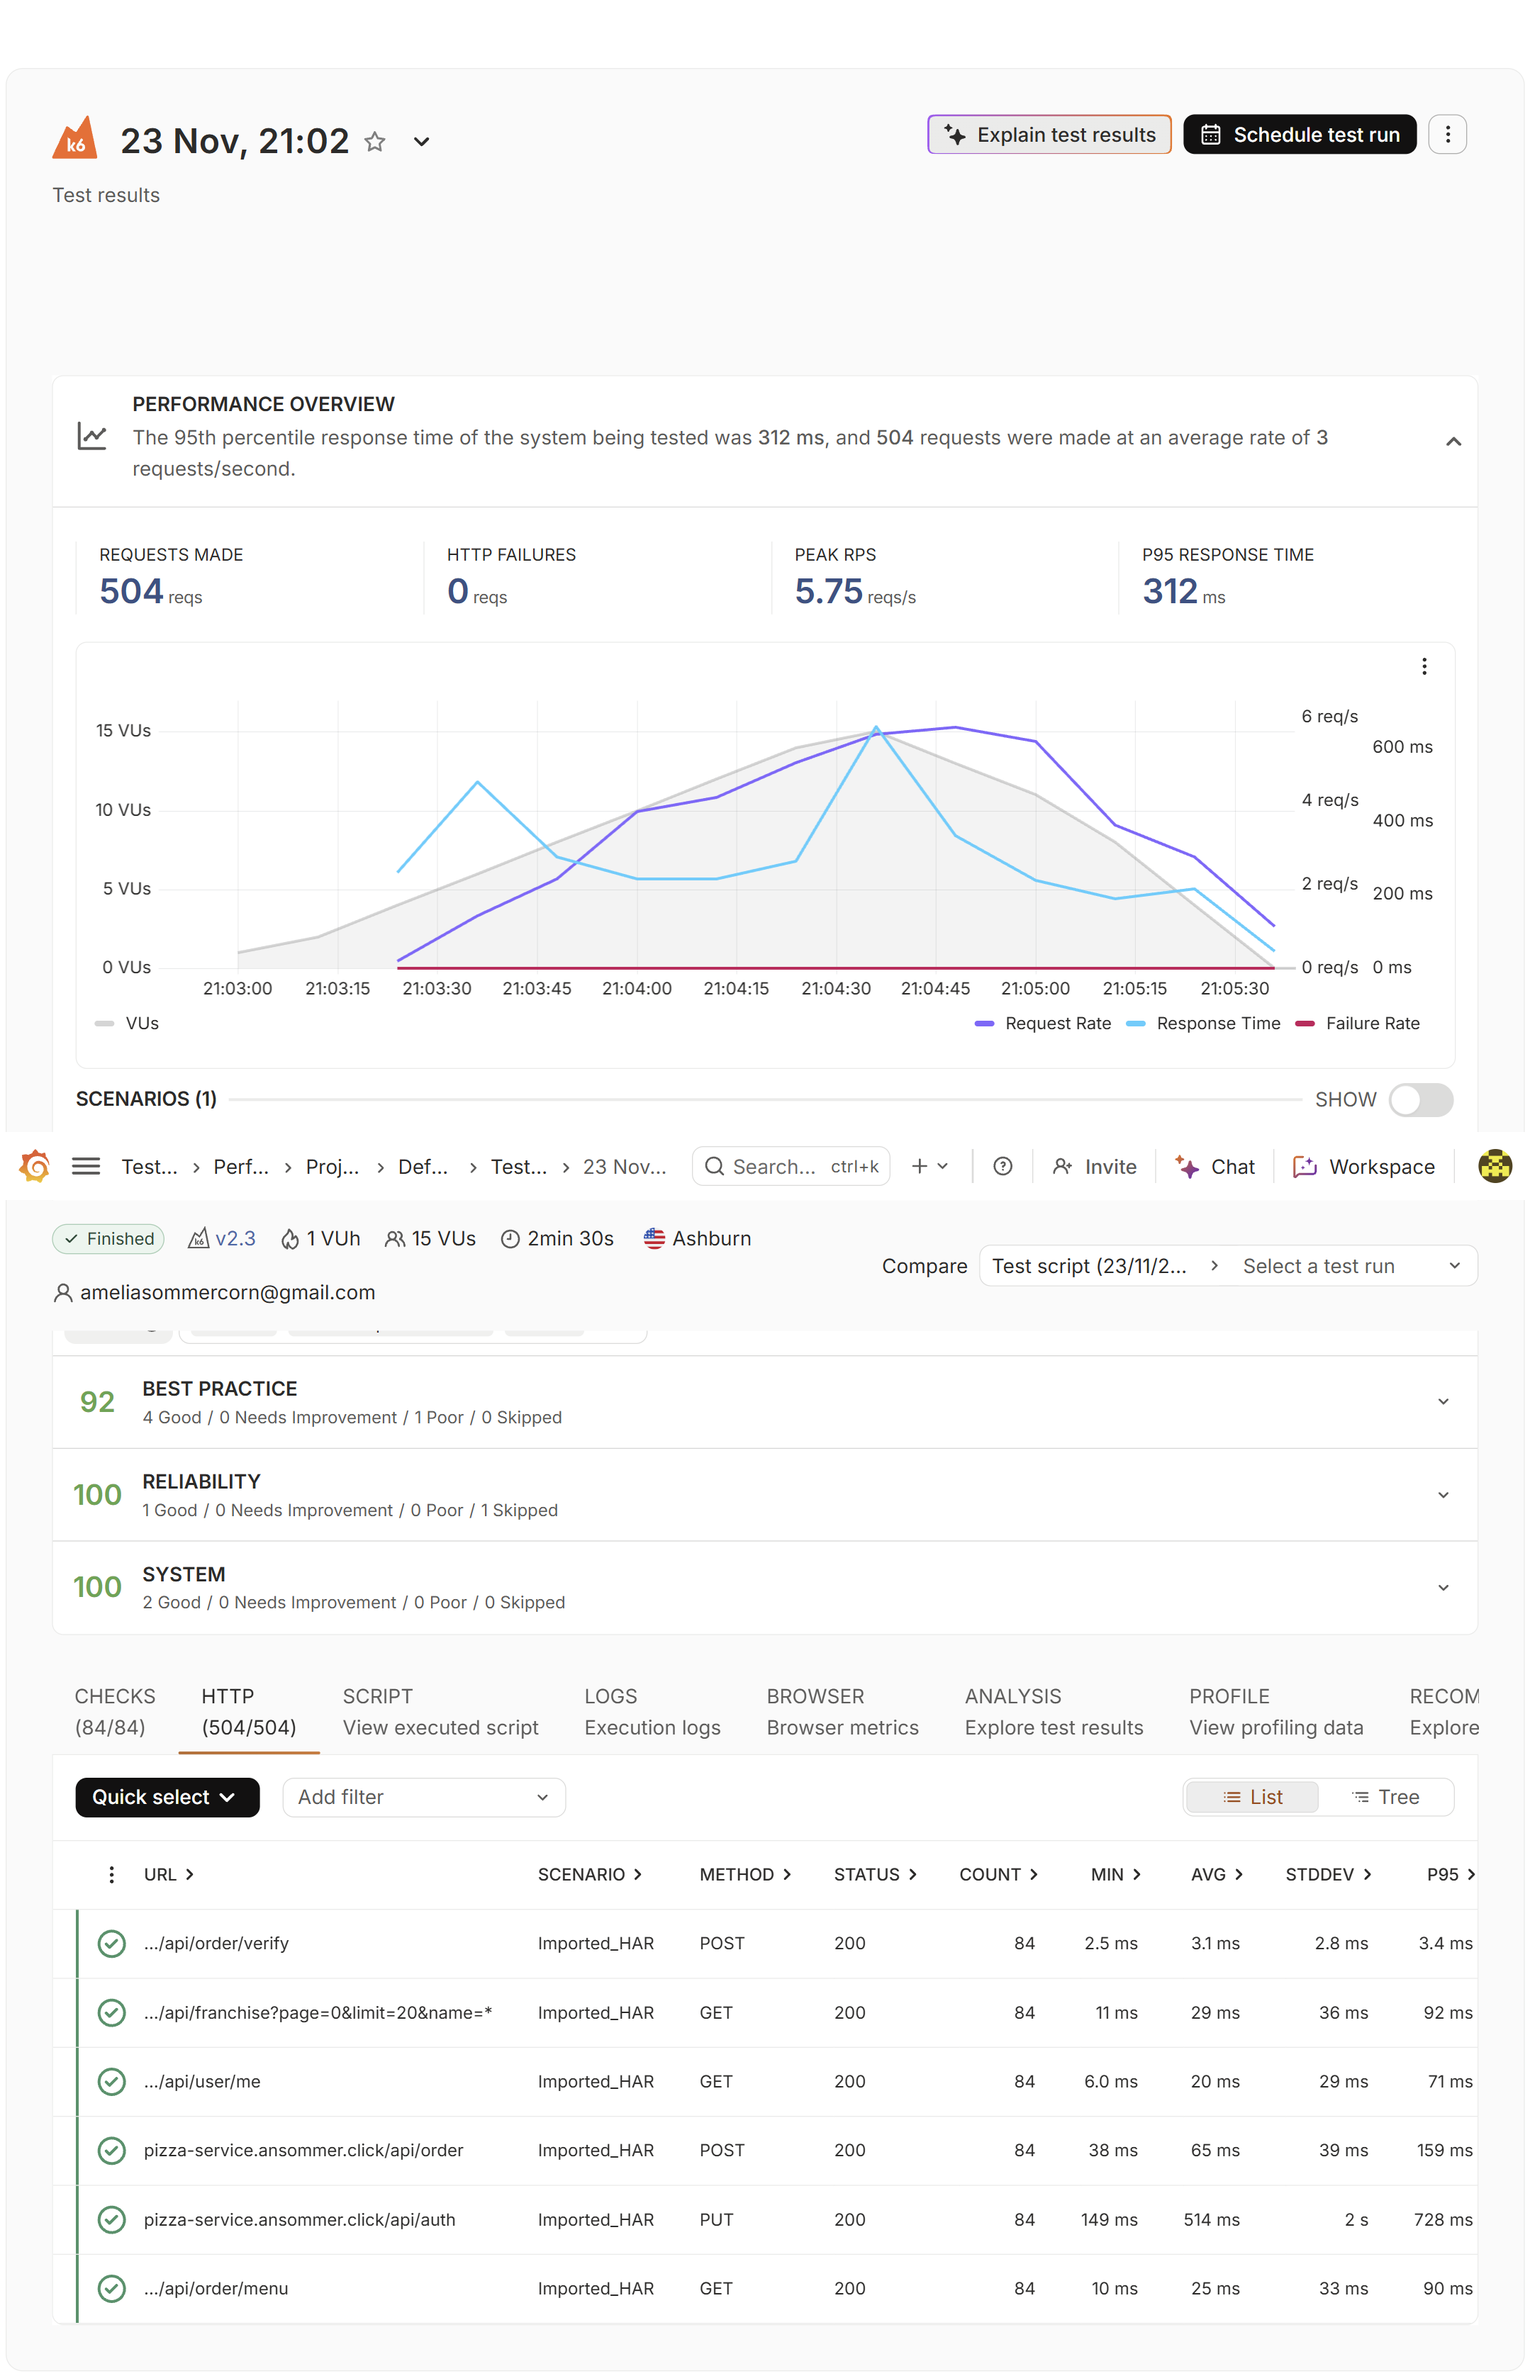
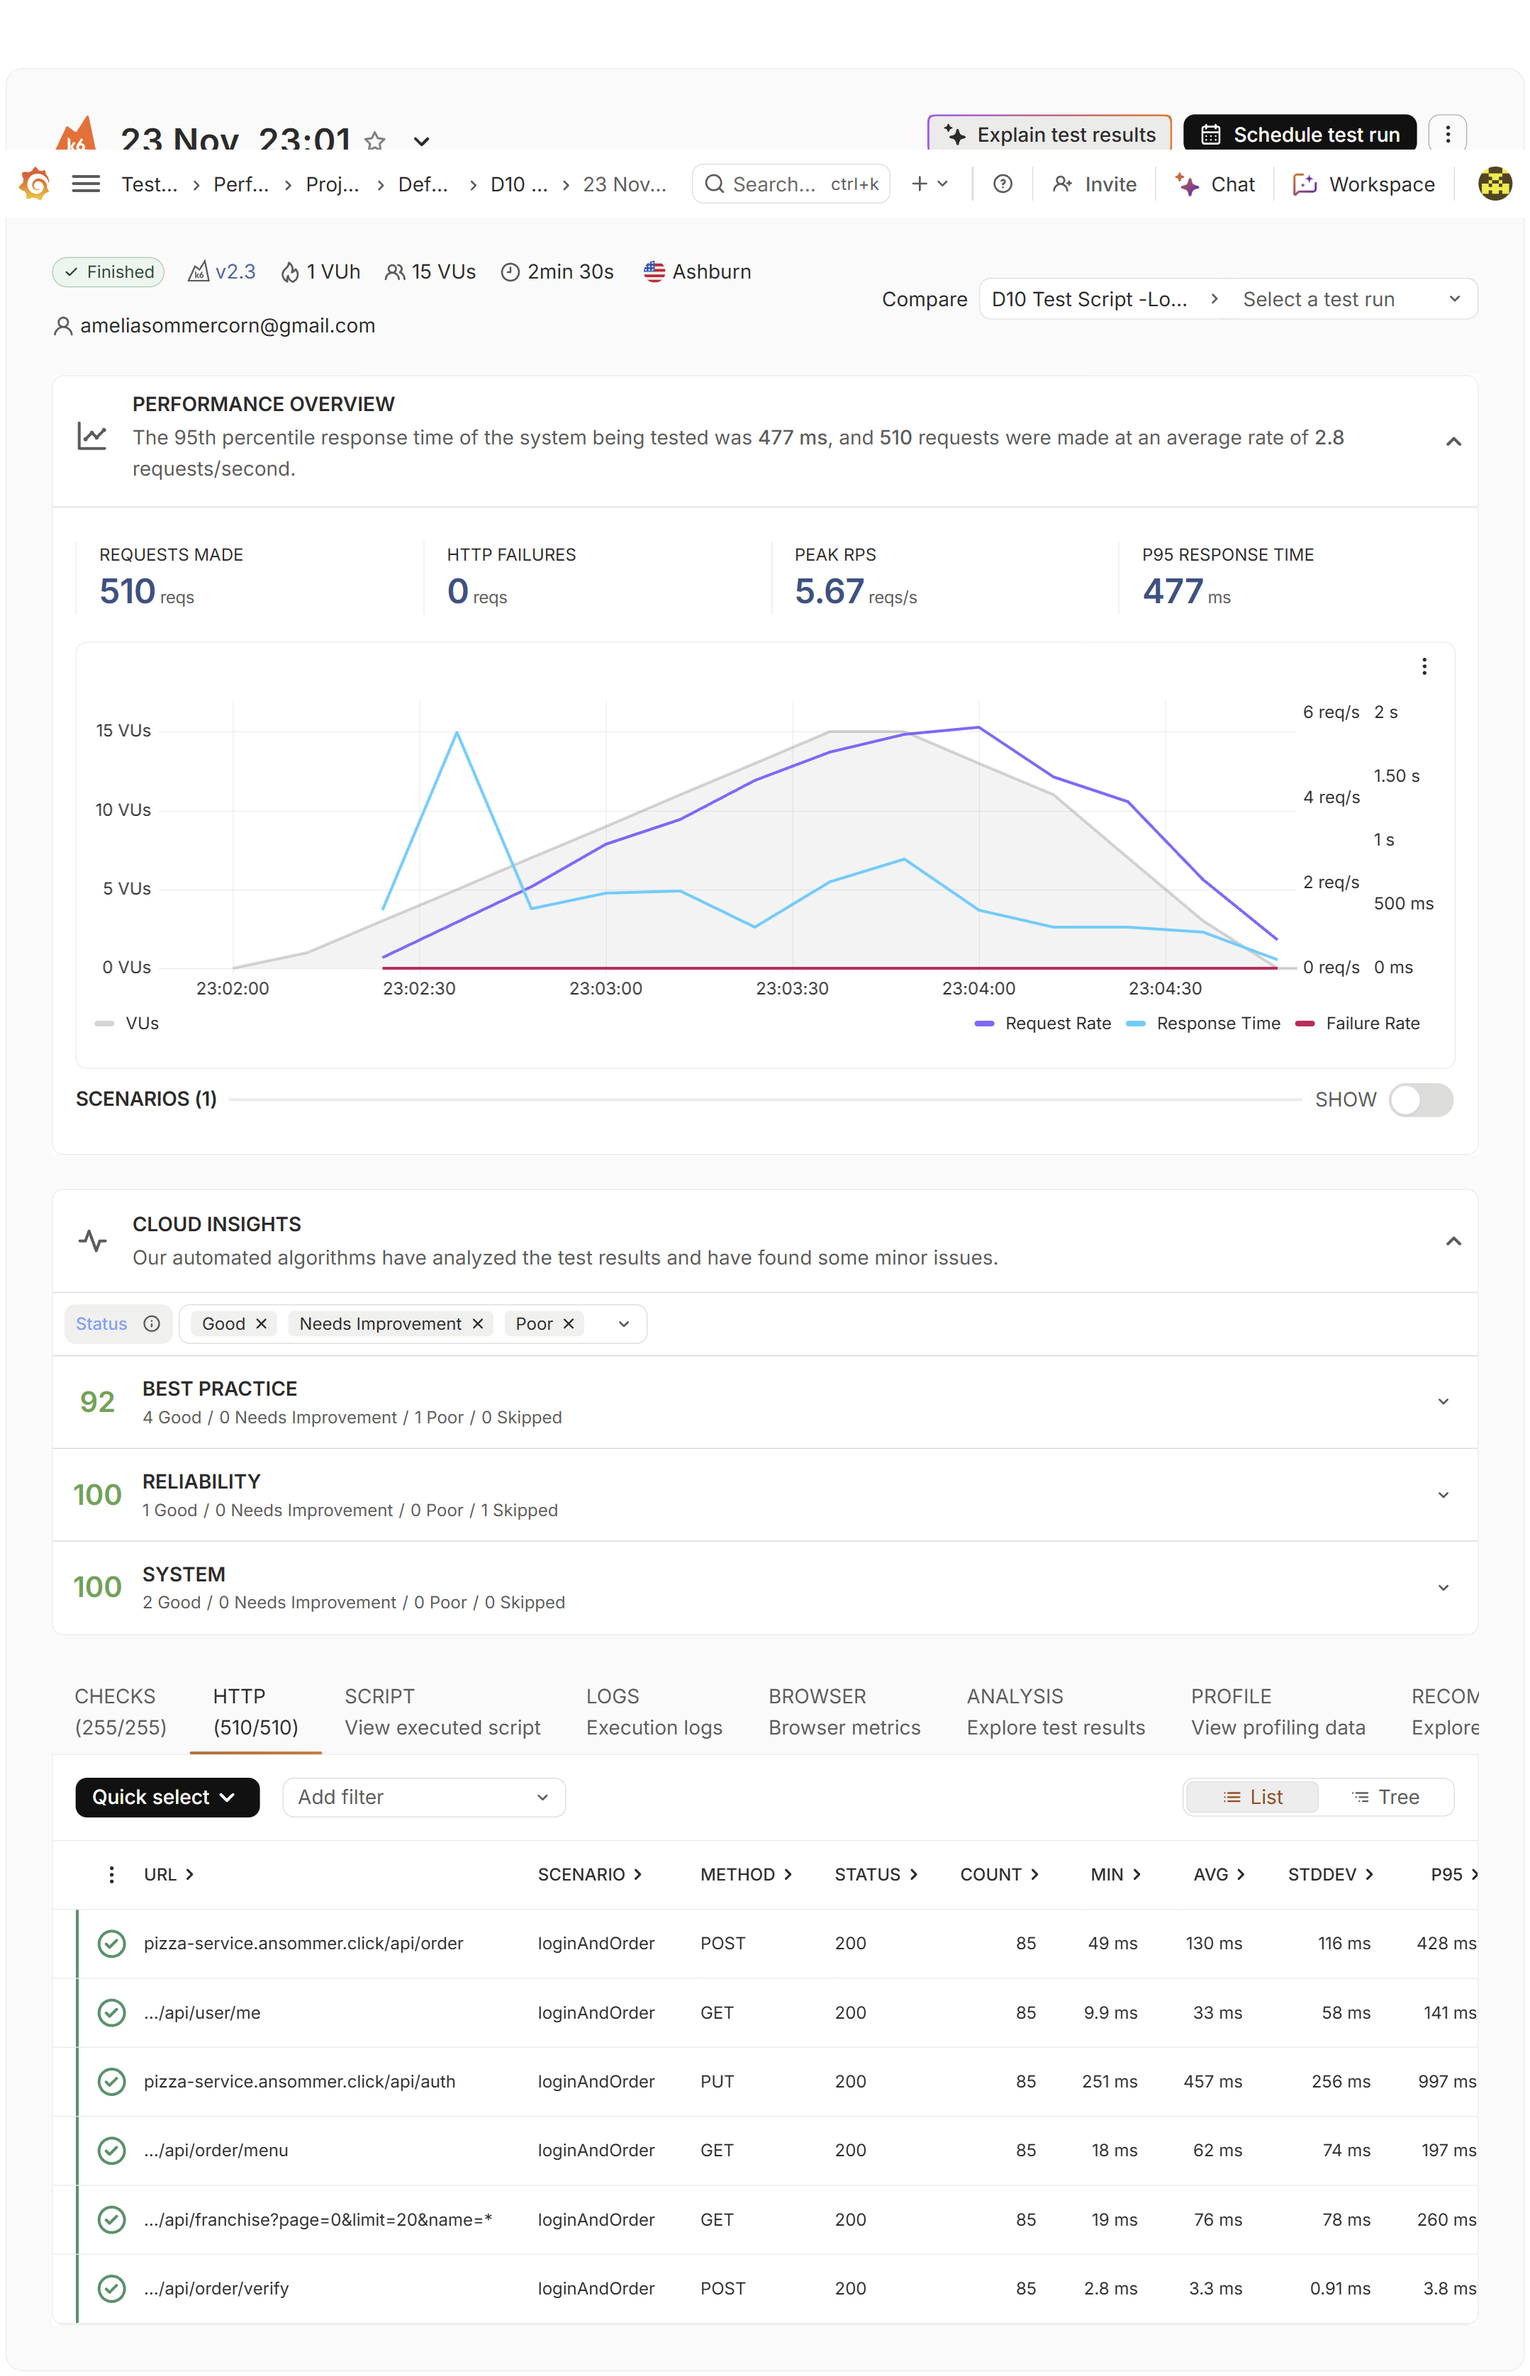
update(load tests)

diff --git a/loadTests/loginAndOrder.js b/loadTests/loginAndOrder.js
@@ -9,7 +9,7 @@ export const options = {
   },
   thresholds: {},
   scenarios: {
-    Imported_HAR: {
+    loginAndOrder: {
       executor: 'ramping-vus',
       gracefulStop: '30s',
       stages: [
@@ -19,12 +19,12 @@ export const options = {
         { target: 0, duration: '30s' },
       ],
       gracefulRampDown: '30s',
-      exec: 'imported_HAR',
+      exec: 'loginAndOrder',
     },
   },
 }
 
-export function imported_HAR() {
+export function loginAndOrder() {
   let response
 
   const vars = {}
@@ -48,7 +48,7 @@ export function imported_HAR() {
       'sec-fetch-site': 'same-site',
     },
   })
-  if (!check(response, { 'status equals 200': (response) => response.status.toString() === '200' })) {
+  if (!check(response, { 'Login status equals 200': (response) => response.status.toString() === '200' })) {
     console.log(response.body);
     fail('Login was *not* 200');
   }
@@ -146,6 +146,10 @@ export function imported_HAR() {
       },
     }
   )
+  if (!check(response, { 'Purchase status equals 200': (response) => response.status.toString() === '200' })) {
+    console.log(response.body);
+    fail('Order was *not* 200');
+  }
 
   vars['jwt'] = jsonpath.query(response.json(), '$.jwt')[0]
 
@@ -176,4 +180,9 @@ export function imported_HAR() {
       },
     }
   )
+
+  if (!check(response, { 'pizza JWT is valid': (response) => response.status === 200 && response.json('message') === 'valid',})) {
+    console.log(response.body);
+    fail('Pizza JWT verification failed');
+  }
 }
